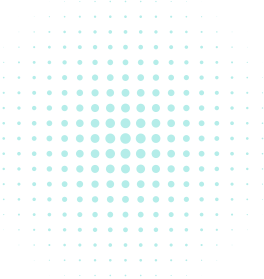
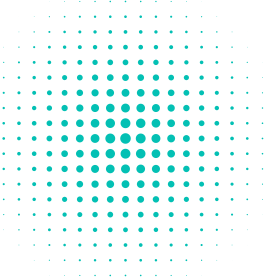
fix: footer shape image opacity

diff --git a/sass/partials/_footer.scss b/sass/partials/_footer.scss
@@ -7,12 +7,17 @@
     @include rmaxwd(767) {
       padding-top: 80px;
     }
+    .shape_1,
+    .shape_2{
+      img{
+        opacity: 0.3;
+      }
+    }
     .shape_2 {
       position: absolute;
       right: 0;
       top: 0;
     }
-
     .shape_1 {
       position: absolute;
       left: 0;

diff --git a/css/style.css b/css/style.css
@@ -11773,6 +11773,10 @@ ul.children {
     padding-top: 80px;
   }
 }
+.footer .footer-sec .shape_1 img,
+.footer .footer-sec .shape_2 img {
+  opacity: 0.3;
+}
 .footer .footer-sec .shape_2 {
   position: absolute;
   right: 0;
